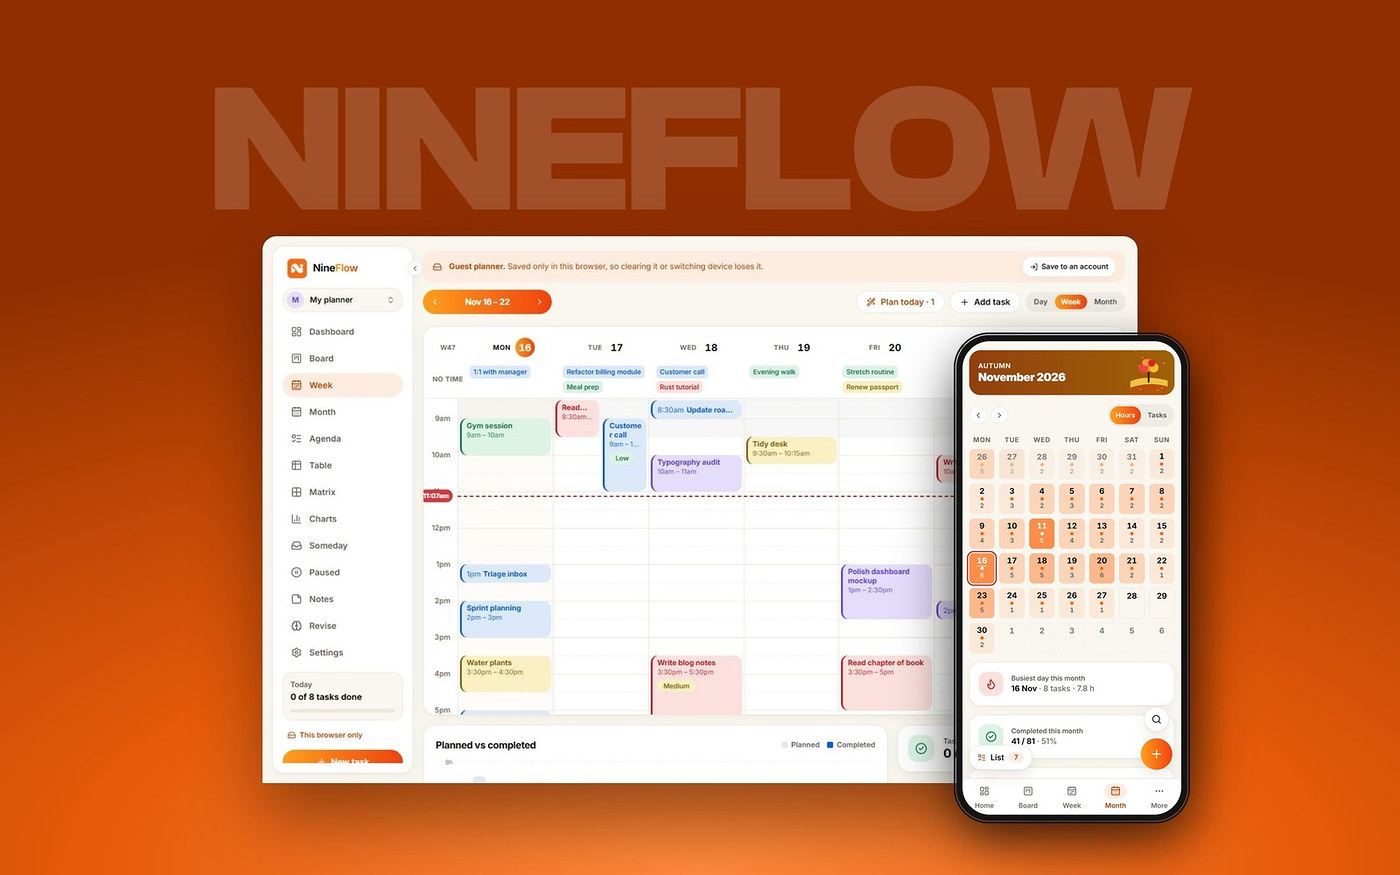
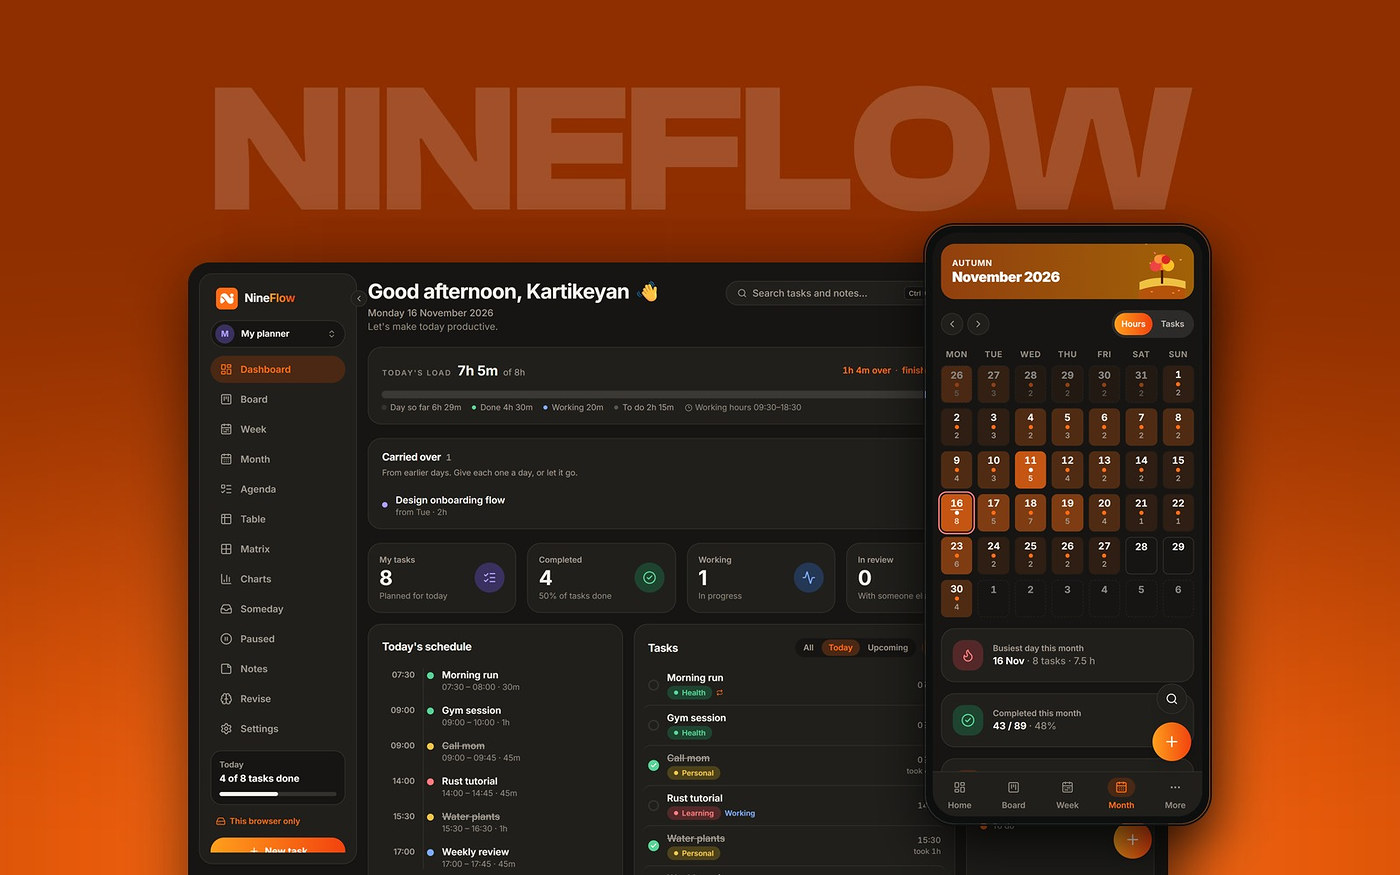
New NineFlow cover: real dark Dashboard on desktop and Month view on a phone
Same style as the FinRoot cover, from the real app screens in the
NineFlow Behance set: a large frameless dark Dashboard running off the
bottom and a complete phone showing the dark Month calendar, on the
orange NINEFLOW background, all inside the area the cards keep after
cropping. Alt text updated to match.

diff --git a/nineflow.html b/nineflow.html
@@ -70,7 +70,7 @@
     <div><dt>Type</dt><dd>Own</dd><small>product</small></div>
   </dl>
   <p class="rx-desc">A daily planner, focus timer and work log in one app, for anyone who wants to plan the day and see where the hours really went.</p>
-  <div class="hero__cover pd-cover" data-item="cover" style="view-transition-name:shot-nineflow;view-transition-class:shot"><img src="assets/images/projects/nineflow/cover.jpg" alt="NineFlow: the week calendar on a laptop and the month view on a phone, in front of a large NINEFLOW wordmark on orange" /></div>
+  <div class="hero__cover pd-cover" data-item="cover" style="view-transition-name:shot-nineflow;view-transition-class:shot"><img src="assets/images/projects/nineflow/cover.jpg" alt="NineFlow in dark mode: the Dashboard on desktop and the Month calendar on a phone, in front of a large NINEFLOW wordmark on orange" /></div>
 </header>
 
 
